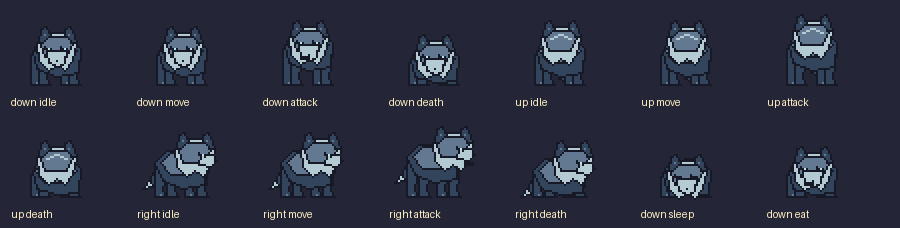
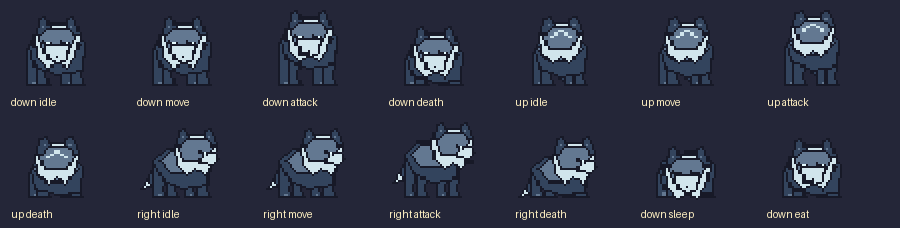
art: improve Rimewolf scale and contrast

diff --git a/game/assets/arcane/b40c-rimewolf/CODEX-TO-CLAUDE.md b/game/assets/arcane/b40c-rimewolf/CODEX-TO-CLAUDE.md
@@ -1,5 +1,5 @@
-# Codex -> Claude — B40c Rimewolf
+# Codex -> Claude — B40c Rimewolf scale and contrast revision
 
-`codex/b40c-rimewolf` delivers 14 original 192 px strips. Rimewolf has a dark coat, broad pale ruff and low tail. The set includes sleep and eat down and retains the 10 fps defeat timing.
+`codex/b40c-rimewolf-scale-revision` replaces all 14 Rimewolf strips in place. Standing poses now measure 35 native pixels in all three directions. The pale ruff and eye highlights are brighter. The 192 px cells, (96, 171) anchor, frame counts and playback rates are unchanged.
 
-Intake passed with zero blockers or warnings. The contact sheet was visually reviewed and the ZIP verified. Please check the side stride and silhouette against Frostfox at tundra gameplay scale.
+Intake passed with zero blockers or warnings. The contact sheet and ZIP were checked locally. Please confirm standing scale versus Frostfox and ruff contrast on snow at gameplay zoom.
